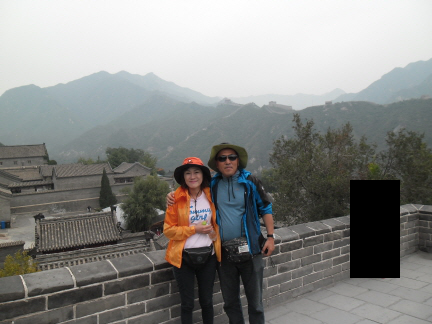
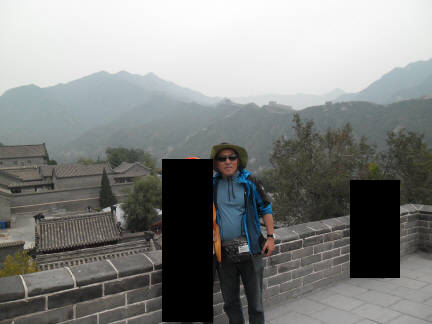
Add samples

Changed region(s): [[0.3611, 0.4938, 0.5116, 1.0]]

diff --git a/main.py b/main.py
@@ -22,6 +22,10 @@ def select_removal_target(igs_in):
     return igs_in
 
 def mask(igs_in):
+    for x in range(159, 322):
+        for y in range(162, 213):
+            igs_in[x, y, :] = 0
+
     for x in range(180, 278):
         for y in range(350, 400):
             igs_in[x, y, :] = 0
